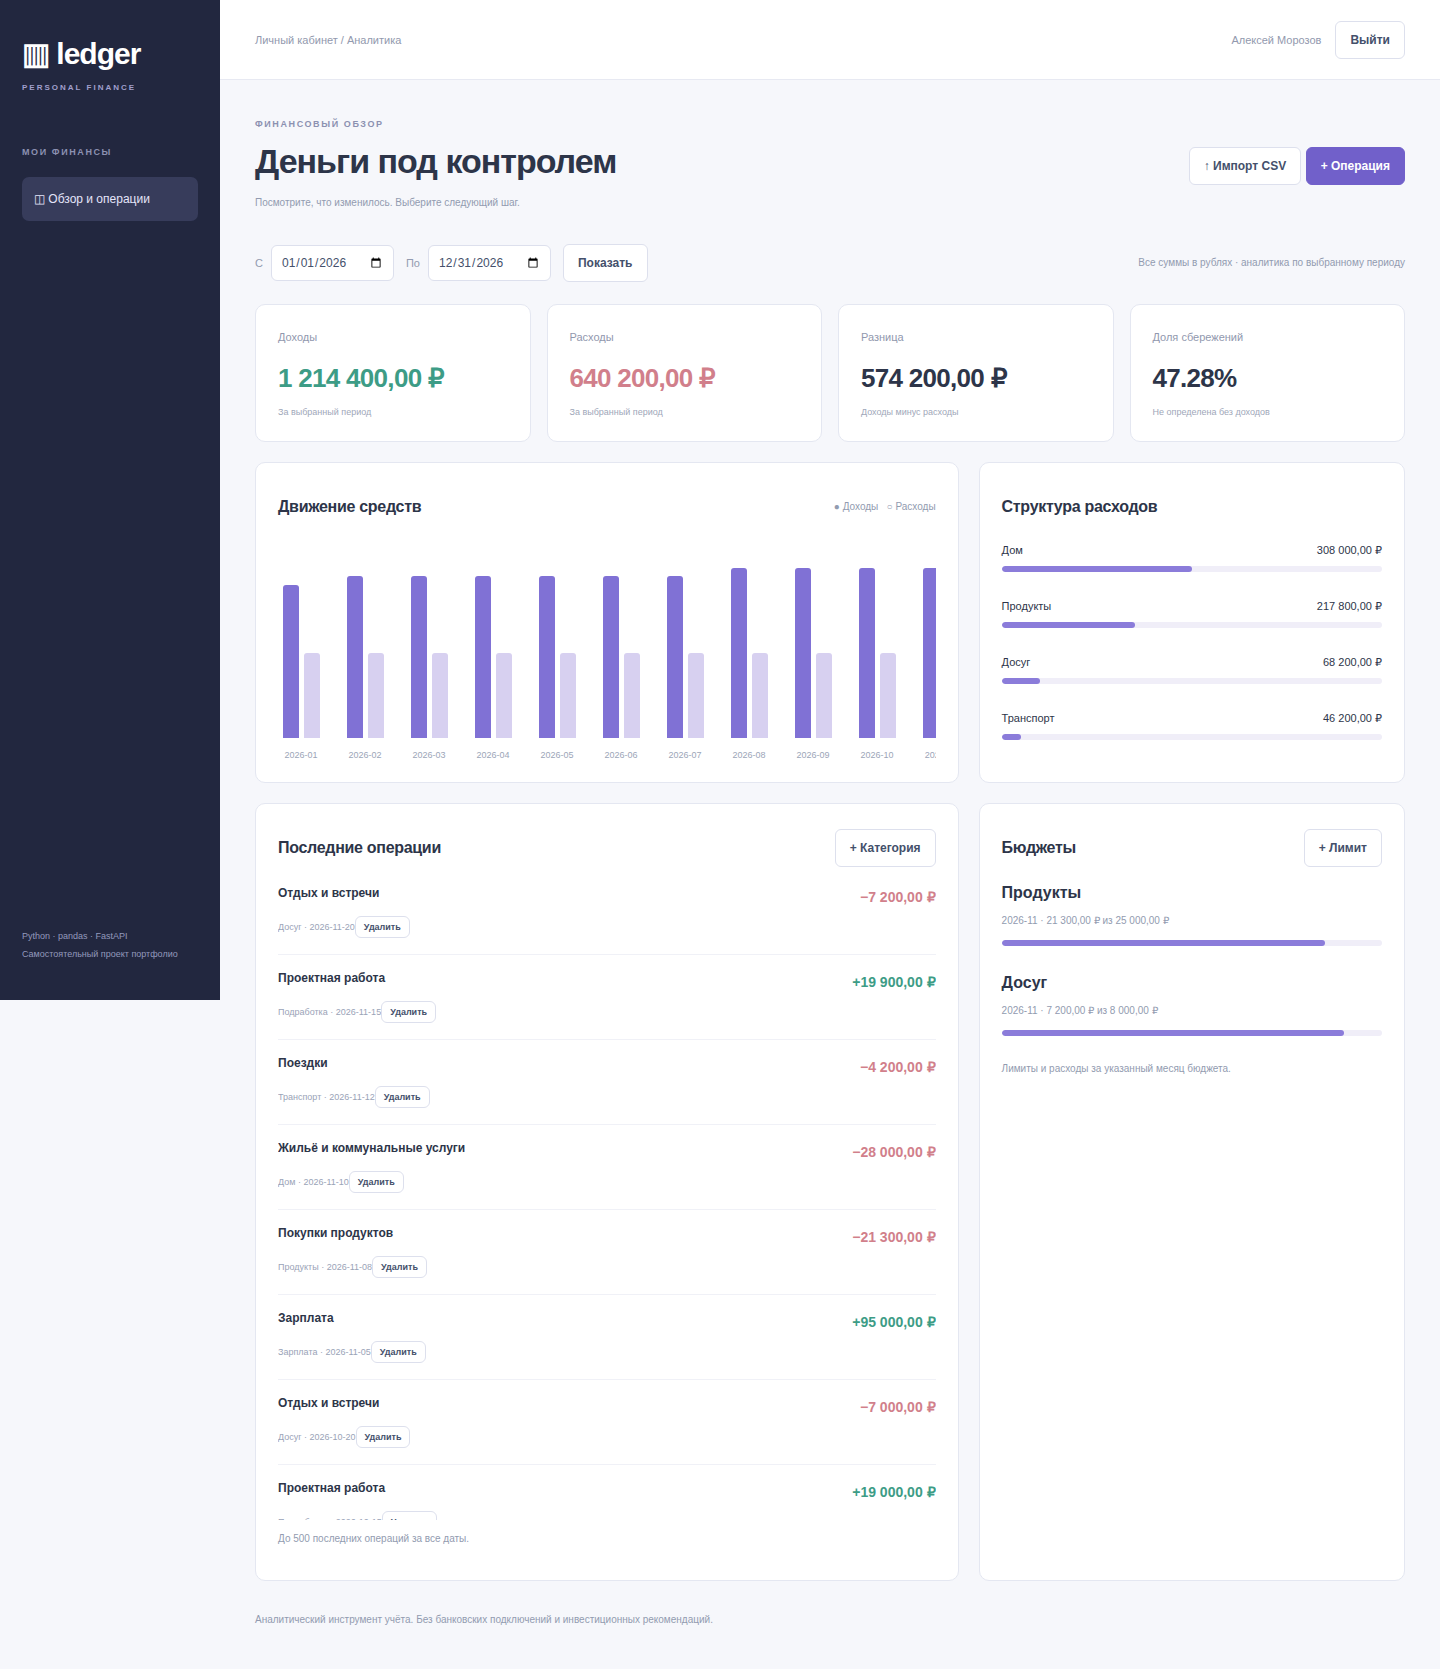
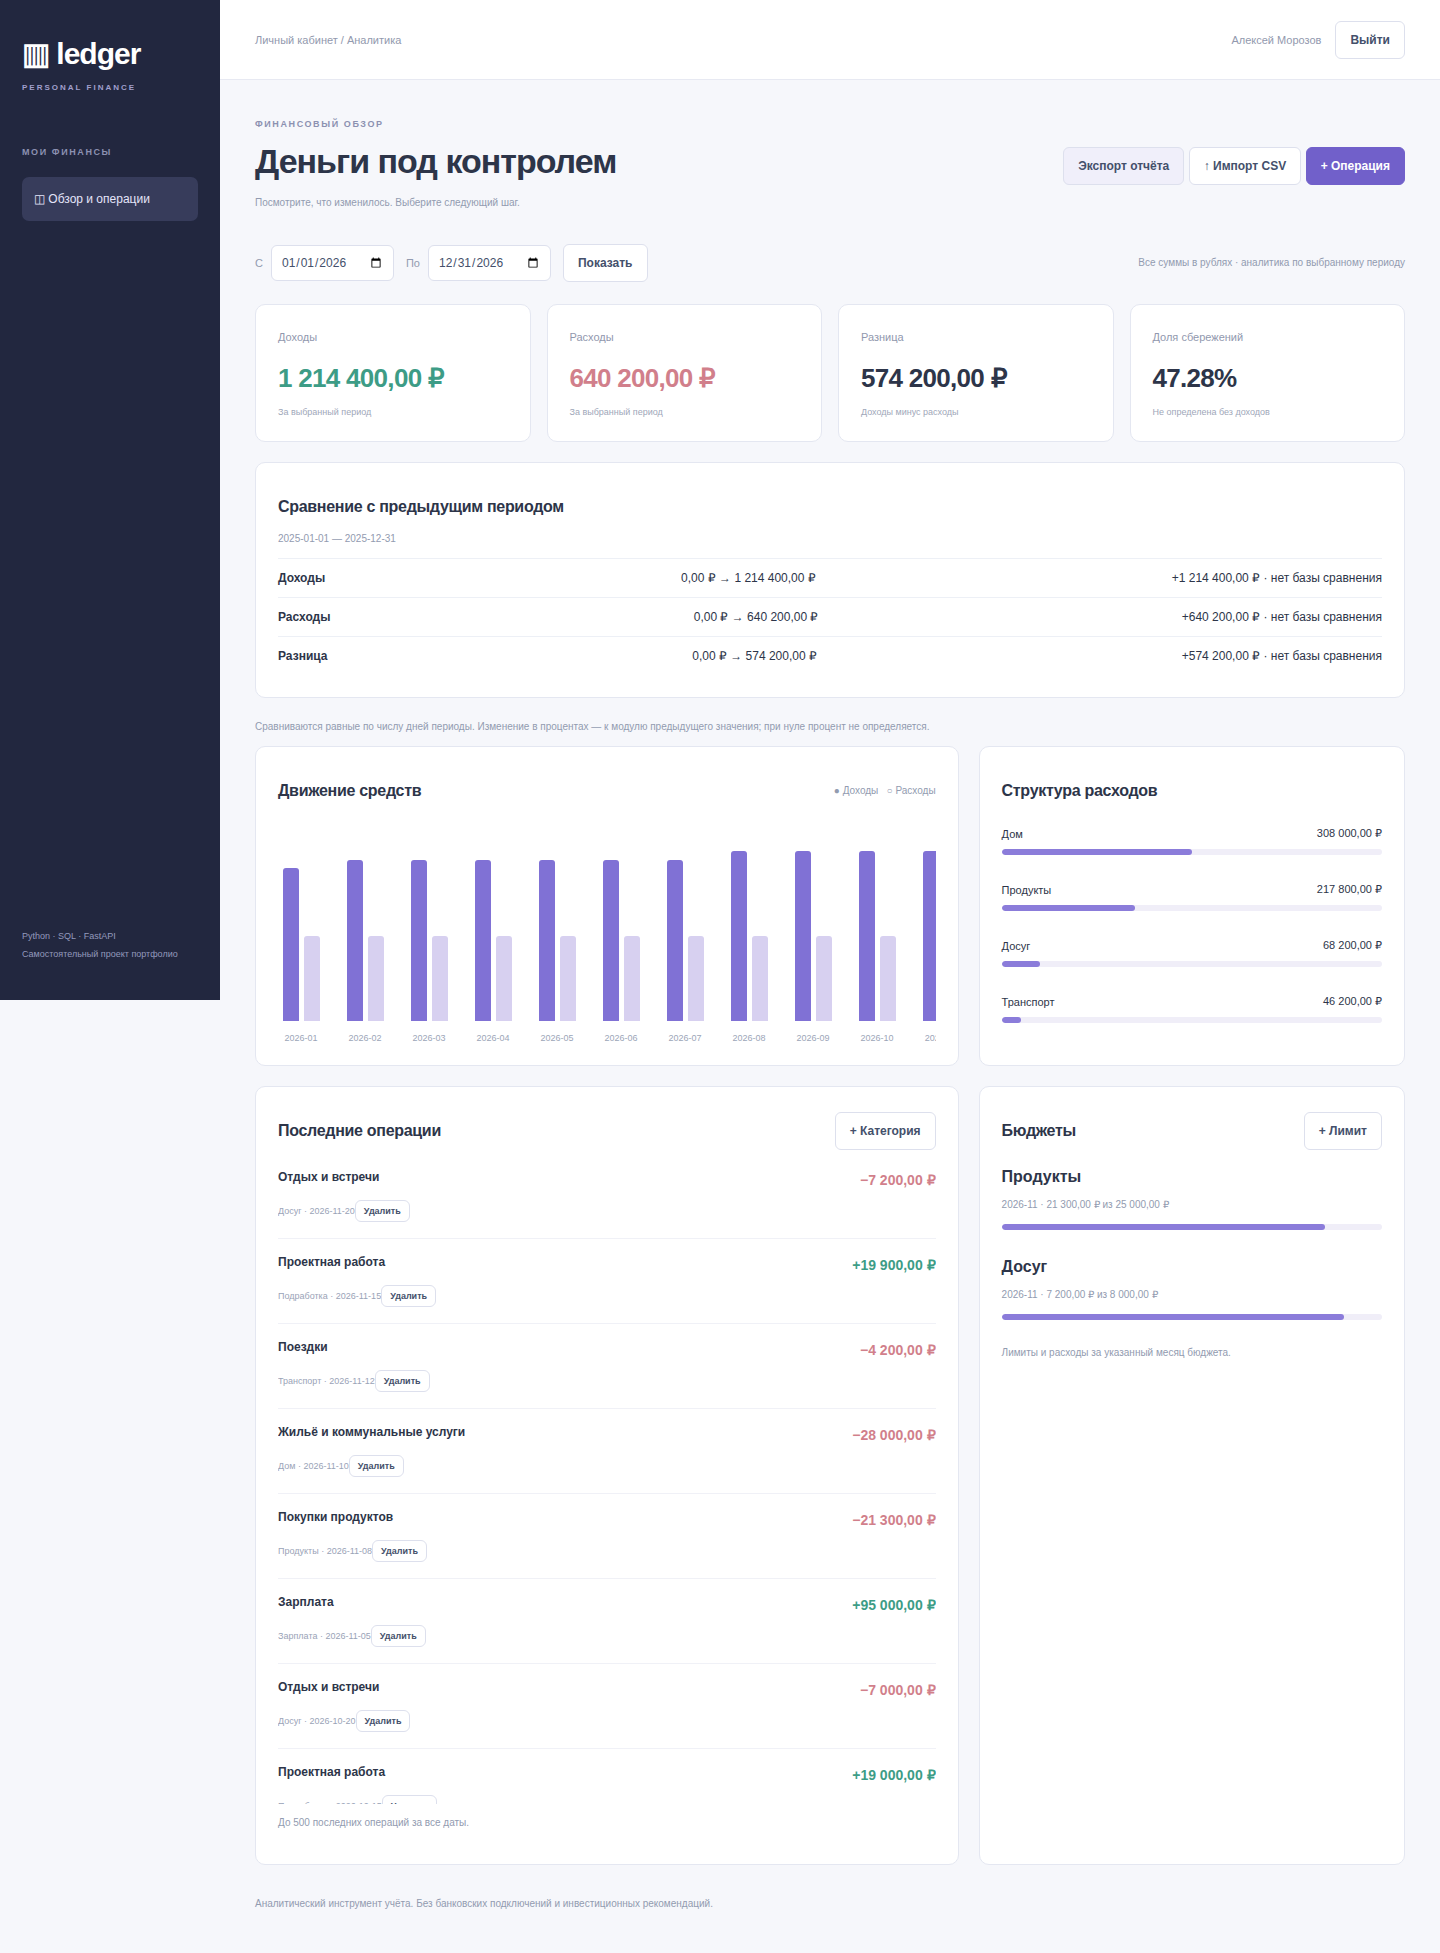
Accept Ledger SQL reporting with reviewed comparison screenshots

diff --git a/docs/ACCEPTANCE.md b/docs/ACCEPTANCE.md
@@ -5,3 +5,8 @@
 Данные вымышлены. Нет банковской интеграции, восстановления пароля, production-наблюдаемости и проверки восстановления backup. Docker локально не установлен: контейнерные проверки выполнены в CI. Локально Python 3.14: pytest 7 passed. Это самостоятельный учебный MVP портфолио, не коммерческий production-сервис.
 
 [Финальный CI 43909831110](https://github.com/rvrhxg/Finance-Dashboard/actions/runs/43909831110) на 9edf48f: все три версии Python и Docker/PostgreSQL/Chromium успешны.
+
+
+## SQL-отчёты, сравнение и версии схемы
+
+[CI 43923986565](https://github.com/rvrhxg/Finance-Dashboard/actions/runs/43923986565) на 569144a: все job успешны. PostgreSQL-сценарий миграций, BigInteger, владельцев и группировки проверен на Python3.12,3.13,3.14. Локально Python3.14: 10 passed, 1 skipped (PostgreSQL отсутствует); в матрице выполняется и PostgreSQL-тест. RuffE9/F app/tests/scripts и strict mypy app/periods.py успешны. Docker build/runtime подтвердили запуск с миграциями и сохранность после перезапуска. Chromium проверил сравнение периодов и скачивание CSV-отчёта вместе с прежними CRUD/import/budget сценариями. Скриншоты1440/390px из артефакта14254129822 просмотрены визуально, горизонтального переполнения страницы нет. Старой базе требуется сверка и stamp0001 по MIGRATIONS.md. Общая snapshot-гарантия многозапросного отчёта и аварийное backup/restore не заявляются.
